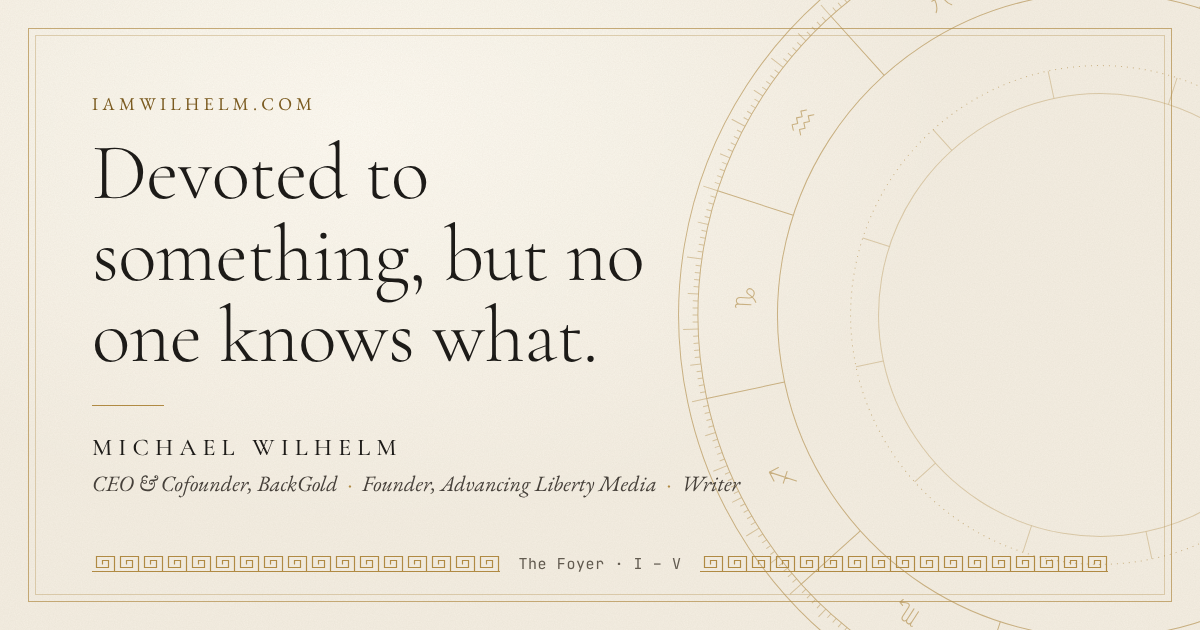
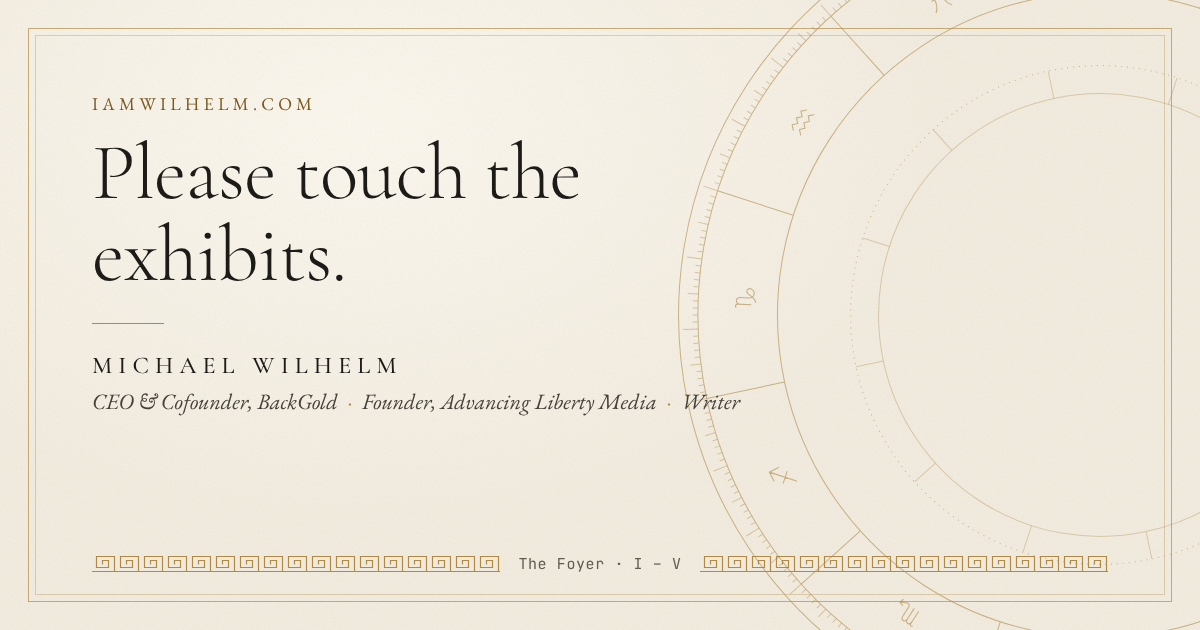
Foyer line: Please touch the exhibits; a slot for the commissions intake form
The foyer headline, the default page title, the share image and its alt
text now read "Please touch the exhibits."

/services gains a framed embed for the scrolly commissions intake (a
BackGold form) in its close, IV.06. It renders once SCROLLY_INTAKE_URL in
src/config/site.ts holds the form's address; until then the page closes as
before.

Claude-Session: https://claude.ai/code/session_01ATU15zJLZdhxnDZUpRk3gs

diff --git a/src/config/site.ts b/src/config/site.ts
@@ -6,7 +6,7 @@
 export const SITE_URL = 'https://iamwilhelm.com';
 export const SITE_NAME = 'Michael Wilhelm';
 
-export const DEFAULT_TITLE = 'Michael Wilhelm · Devoted to something, but no one knows what.';
+export const DEFAULT_TITLE = 'Michael Wilhelm · Please touch the exhibits.';
 export const DEFAULT_DESCRIPTION =
   'Michael Wilhelm: CEO and cofounder of BackGold, founder of Advancing Liberty Media, and a writer of visualized poetry. A small museum of his work and writing.';
 
@@ -22,6 +22,15 @@ export const SCROLLBRIEF_URL = 'https://scrollbrief.com';
 /** The Scrollbrief intake: a BackGold form, "Bring one case." */
 export const SCROLLBRIEF_INTAKE_URL =
   'https://api.backgold.com/f/834246565e3527a7e2aea230d4402fd7/FormBlock-67ecbfa84894da4f1210140c8c2cc9b8';
+
+/**
+ * The scrolly commissions intake: a BackGold form, embedded in the close of
+ * /services (IV.06). PLACEHOLDER(owner): paste the hosted form's address
+ * (https://api.backgold.com/f/<page>/<FormBlock-id>) once the form exists in
+ * BackGold. While this is empty the page closes with the call and mail
+ * links only, and nothing is embedded.
+ */
+export const SCROLLY_INTAKE_URL = '';
 
 /** The BackGold scheduler: a web design consultation with Michael. */
 export const SCHEDULER_URL = 'https://app.backgold.com/book/backgold/web-design-consultation';
